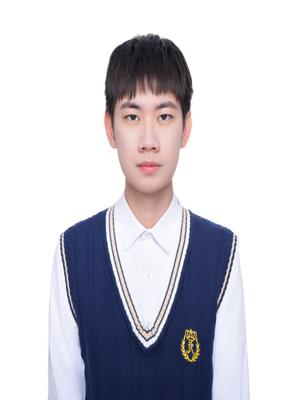
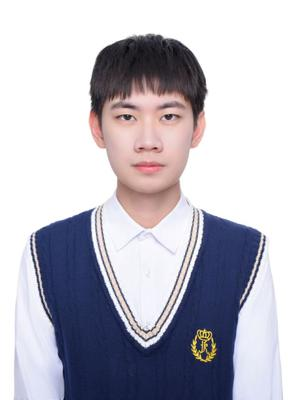
update resize photo

Changed region(s): [[0.03, 0.06, 0.96, 1.0], [0.51, 0.54, 0.54, 0.57]]

diff --git a/common/tools/resize_photo.py b/common/tools/resize_photo.py
@@ -21,27 +21,27 @@ def resize_crop_or_pad(image_path,
     else:
         raise ValueError("priority must be either 'height' or 'width'")
 
-    img_resized = img.resize((target_width, target_height), Image.LANCZOS)
-    img_resized.save(output_path)
-    # # ② 背景颜色：左上角像素
-    # bg_color = img_resized.getpixel((0, 0))
+    img_resized = img.resize((new_w, new_h), Image.LANCZOS)
 
-    # # ③ 根据缩放结果裁剪或填充
-    # if new_w >= target_width and new_h >= target_height:
-    #     # ——— 两边都够大：居中裁剪 ———
-    #     left   = (new_w - target_width)  // 2
-    #     top    = (new_h - target_height) // 2
-    #     right  = left + target_width
-    #     bottom = top  + target_height
-    #     img_out = img_resized.crop((left, top, right, bottom))
-    # else:
-    #     # ——— 有一边不足：新建画布 + 居中填充 ———
-    #     img_out = Image.new(img.mode, (target_width, target_height), bg_color)
-    #     offset_x = (target_width  - new_w) // 2
-    #     offset_y = (target_height - new_h) // 2
-    #     img_out.paste(img_resized, (offset_x, offset_y))
+    # ② 背景颜色：左上角像素
+    bg_color = img_resized.getpixel((0, 0))
 
-    # img_out.save(output_path)
+    # ③ 根据缩放结果裁剪或填充
+    if new_w >= target_width and new_h >= target_height:
+        # ——— 两边都够大：居中裁剪 ———
+        left   = (new_w - target_width)  // 2
+        top    = (new_h - target_height) // 2
+        right  = left + target_width
+        bottom = top  + target_height
+        img_out = img_resized.crop((left, top, right, bottom))
+    else:
+        # ——— 有一边不足：新建画布 + 居中填充 ———
+        img_out = Image.new(img.mode, (target_width, target_height), bg_color)
+        offset_x = (target_width  - new_w) // 2
+        offset_y = (target_height - new_h) // 2
+        img_out.paste(img_resized, (offset_x, 2*offset_y))
+
+    img_out.save(output_path)
 
 
 # ========= 使用示例 =========
@@ -51,7 +51,7 @@ resize_crop_or_pad(image_path,
                    output_path,
                    target_width=300,
                    target_height=400,
-                   priority='width')
+                   priority='height')
 
 # resize_crop_or_pad(image_path,
 #                    output_path,
